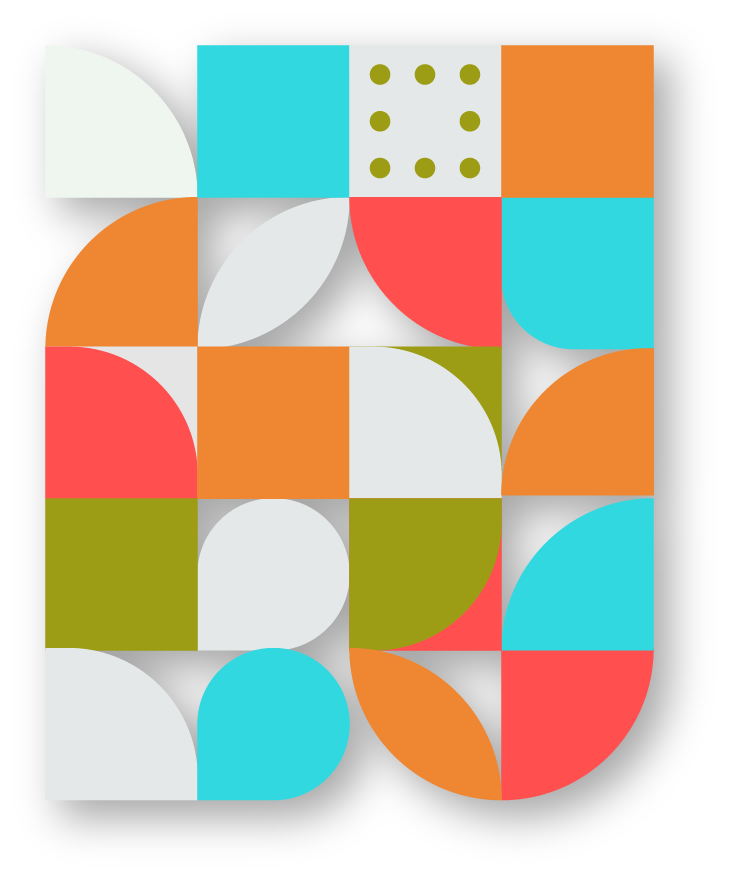
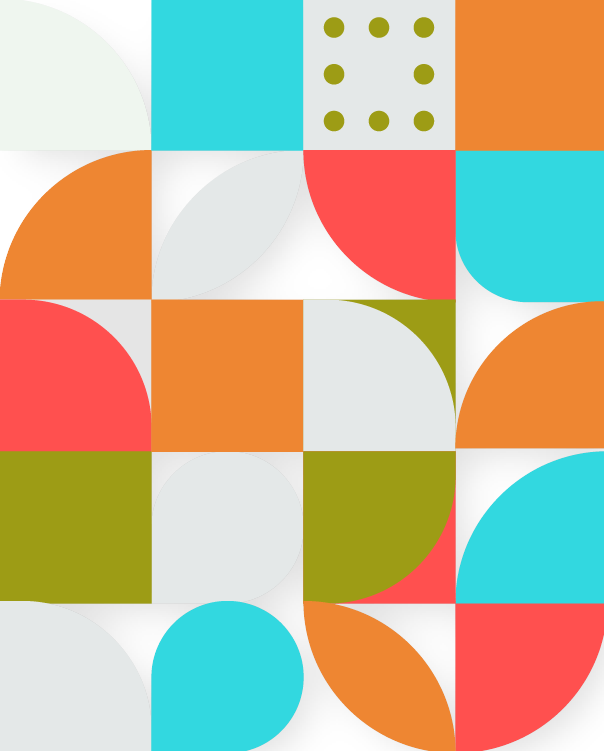
login page ui design has been completed.

diff --git a/resources/stylesheet/auth/login.scss b/resources/stylesheet/auth/login.scss
@@ -1,4 +1,9 @@
 .authentication {
+    .auth-cover {
+        background-size: cover;
+        background-repeat: no-repeat;
+    }
+
     .auth-form {
         .logo {
             letter-spacing: 3px;
@@ -22,6 +27,26 @@
                 &:focus, &:active {
                     border-color: var(--orange);
                     transition: .3s all ease-in-out;
+                }
+            }
+
+            label {
+                &:after {
+                    background-color: transparent;
+                }
+            }
+        }
+
+        .form-check {
+            .form-check-input {
+                border-color: var(--aqua-blue);
+
+                &:checked {
+                    background-color: var(--aqua-blue);
+                }
+
+                &:focus {
+                    box-shadow: 0 0 0 0.25rem rgba(13, 253, 253, 0.25);
                 }
             }
         }
@@ -55,8 +80,9 @@
                 transform: scaleX(0);
                 transition: .3s all ease-in-out;
             }
-            &:hover{
-                &:before{
+
+            &:hover {
+                &:before {
                     transform: scaleX(1);
                     transition: .3s all ease-in-out;
                 }

diff --git a/resources/views/auth/login.blade.php b/resources/views/auth/login.blade.php
@@ -2,12 +2,15 @@
 @section('content')
     <div class="authentication container-fluid vh-100">
         <div class="row h-100">
-            <div class="col-xl-7 col-lg-6 d-md-block d-none bg-danger">
-            </div>
+            <!--Authentication cover imgae-->
+            <div class="col-xl-7 col-md-6  d-md-block d-none auth-cover"
+                 style="background-image: url('./images/auth/image/2x/auth-bg.png')"></div>
+            <!--Authentication cover imgae-->
 
-            <div class="col-xl-5 col-lg-6 col-12 px-md-5">
+            <div class="col-xl-5 col-md-6 col-12 px-lg-5">
                 <!--Authentication form start-->
-                <form action="" class="auth-form p-md-5 p-4">
+                <form action="" class="auth-form p-lg-5 p-4">
+
                     <div class="logo text-uppercase fs-4 fw-bold my-5 pb-4">Revealify</div>
 
                     <h3 class="mb-3 fw-bold fs-2 auth-title text-uppercase">User Login</h3>
@@ -17,14 +20,14 @@
                     <div class="form-group form-floating mb-4 pb-2">
                         <input type="email" class="form-control shadow-none rounded-0" id="email" name="email"
                                placeholder="Enter Your Email">
-                        <label class="bg-transparent" for="email">Email</label>
+                        <label for="email">Email</label>
                     </div>
 
 
                     <div class="form-group form-floating mb-4">
                         <input type="password" class="form-control shadow-none rounded-0" id="password" name="password"
                                placeholder="Enter Password">
-                        <label class="bg-transparent" for="password">Password</label>
+                        <label for="password">Password</label>
                     </div>
 
                     <div class="d-flex justify-content-between align-items-center mb-5 pb-3">
@@ -40,7 +43,7 @@
                     </div>
 
 
-                    <button type="button" class="btn btn-orange-red px-4 rounded-0 mb-5">Login</button>
+                    <button type="button" class="btn btn-orange-red px-4 rounded-0 mb-4">Login</button>
 
                     <br>
 
